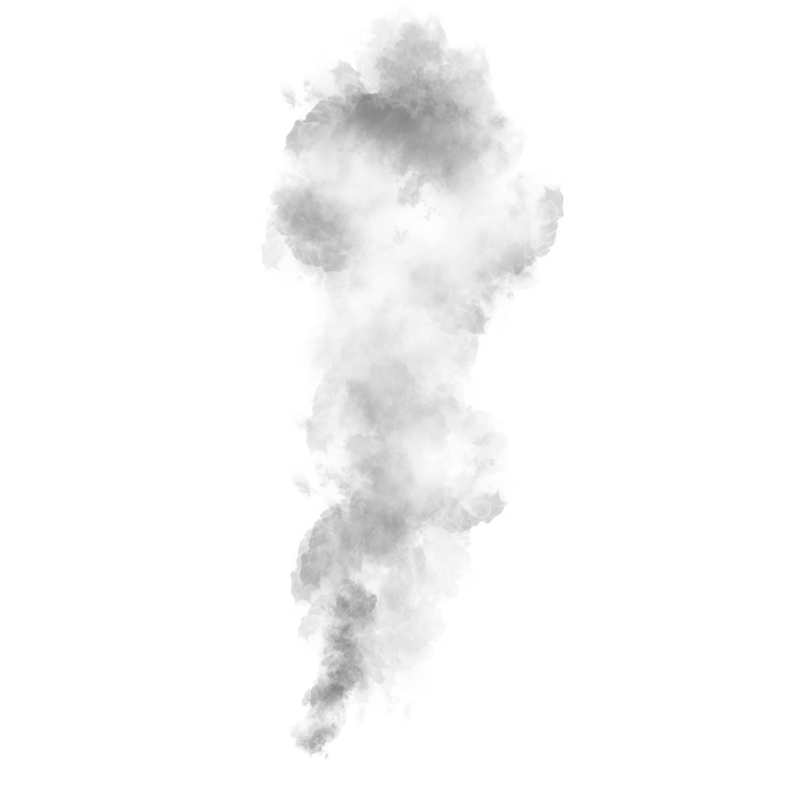
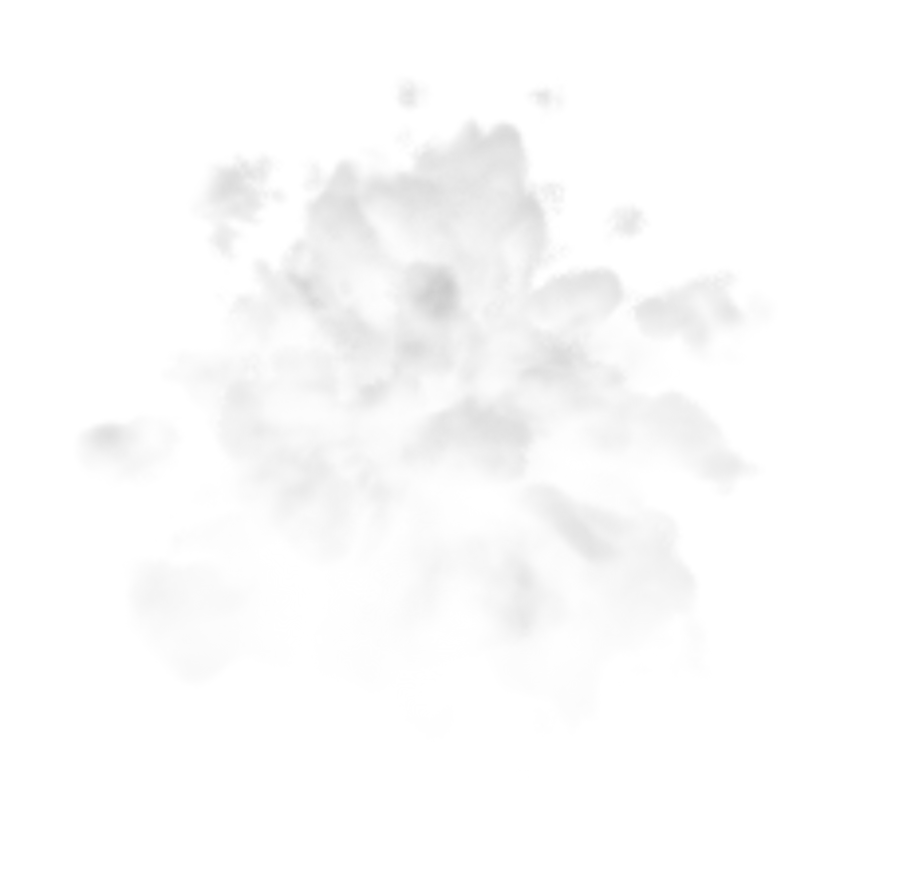
이미지 정리, 코드 최적화
이미지 정리, 코드 최적화

diff --git a/03_smoke/js/script.js b/03_smoke/js/script.js
@@ -1,71 +1,77 @@
-// console.log("hello");
 
 
 let scene, camera, renderer, cloudParticles = [];
 function init() {
-    scene = new THREE.Scene();
-    camera = new THREE.PerspectiveCamera(60,window.innerWidth / window.innerHeight,1,1000);
-    camera.position.x ;
-    camera.rotation.x = 1.16;
-    camera.rotation.y = -0.12;
+    const scene = new THREE.Scene();
+    const camera = new THREE.PerspectiveCamera(75, window.innerWidth/window.innerHeight, 0.1, 10000);
+    const renderer = new THREE.WebGLRenderer({ alpha: true });
+    document.getElementById("smoke").appendChild(renderer.domElement);
+    control = new THREE.OrbitControls(camera, renderer.domElement);
+
+    renderer.setSize(window.innerWidth, window.innerHeight);
+    window.addEventListener("resize", function(){
+        const width = window.innerWidth;
+        const height = window.innerHeight;
+        renderer.setSize(width, height);
+        camera.aspect = width/height;
+        camera.updateProjectionMatrix();
+    })
+    renderer.setClearColor( 0xffffff, 0 );
+
+    camera.position.set(0, 0, 10);
+    
     
     let directionalLight = new THREE.DirectionalLight(0xc4c4c4);
     directionalLight.position.set(0,0,1);
     scene.add(directionalLight);
-    
-    let redLight = new THREE.PointLight(0xff0000,10,450);
-    redLight.position.set(500, 500, 500);
+
+    let redLight = new THREE.PointLight(0xff0000,10,100);
+    // redLight.position.set(500, 500, 500);
     scene.add(redLight);
     
-    let blueLight = new THREE.PointLight(0x0000ff,10,450);
-    blueLight.position.set(100, 100, 100);
+    let blueLight = new THREE.PointLight(0x0000ff,10,100);
+    // blueLight.position.set(100, 100, 100);
     scene.add(blueLight);
     
-    let greenLight = new THREE.PointLight(0x00ff00,10,450);
-    greenLight.position.set(300, 300, 300);
+    let greenLight = new THREE.PointLight(0x00ff00,10,100);
+    // greenLight.position.set(300, 300, 300);
     scene.add(greenLight);
     
-    
 
-    renderer = new THREE.WebGLRenderer();
-    renderer.setSize(window.innerWidth,window.innerHeight);
-    renderer.setClearColor( 0x000000, 0 );
-    document.body.appendChild(renderer.domElement);
-    
     let loader = new THREE.TextureLoader();
-    loader.load("./img/smoke_4.png", function(texture){
-        cloudGeo = new THREE.PlaneBufferGeometry(500,500);
+    loader.load("./img/smoke.png", function(texture){
+        cloudGeo = new THREE.PlaneBufferGeometry(10,10);
         cloudMaterial = new THREE.MeshLambertMaterial({
-          map:texture,
-          transparent: true
+        map:texture,
+        transparent: true
         });
-    for(let i=0; i<10; i++) {
-        let cloud = new THREE.Mesh(cloudGeo, cloudMaterial);
-        cloud.position.set(
-        Math.random()*800 -400,
-        500,
-        Math.random()*500-500
-        );
-        cloud.rotation.x = 1.16;
-        cloud.rotation.y = -0.12;
-        cloud.rotation.z = Math.random()*2*Math.PI;
-        cloud.material.opacity = 0.55;
-        cloudParticles.push(cloud);
-        scene.add(cloud);
+        for(let i=0; i<1; i++) {
+            let cloud = new THREE.Mesh(cloudGeo, cloudMaterial);
+            cloud.position.set(
+                0,
+                0,
+                0
+            );
+            cloud.material.opacity = 1;
+            cloudParticles.push(cloud);
+            scene.add(cloud);
+        }
+    });
+    
+    function render() {
+        cloudParticles.forEach(e => {
+            e.rotation.z -=0.001;
+         });
+
+         console.log(camera.position.x);
+         console.log(camera.position.y);
+         console.log(camera.position.z);
+        renderer.render(scene,camera);
+        requestAnimationFrame(render);
     }
 
-
-    });
     render();
 }
 
-function render() {
-    cloudParticles.forEach(p => {
-        p.rotation.z -=0.001;
-     });
-     
-    renderer.render(scene,camera);
-    requestAnimationFrame(render);
-}
 init();
 

diff --git a/03_smoke/css/style.css b/03_smoke/css/style.css
@@ -1,4 +1,3 @@
-*{margin: 0; padding: 0;
-    color: #dadada;
-}
-body{background: #454545;}
+
+
+body{margin: 0; padding: 0;background: #000; overflow: hidden;}

diff --git a/03_smoke/index.html b/03_smoke/index.html
@@ -10,7 +10,7 @@
 
 
 <body>
-
+    <div id="smoke"></div>
     
 
 
